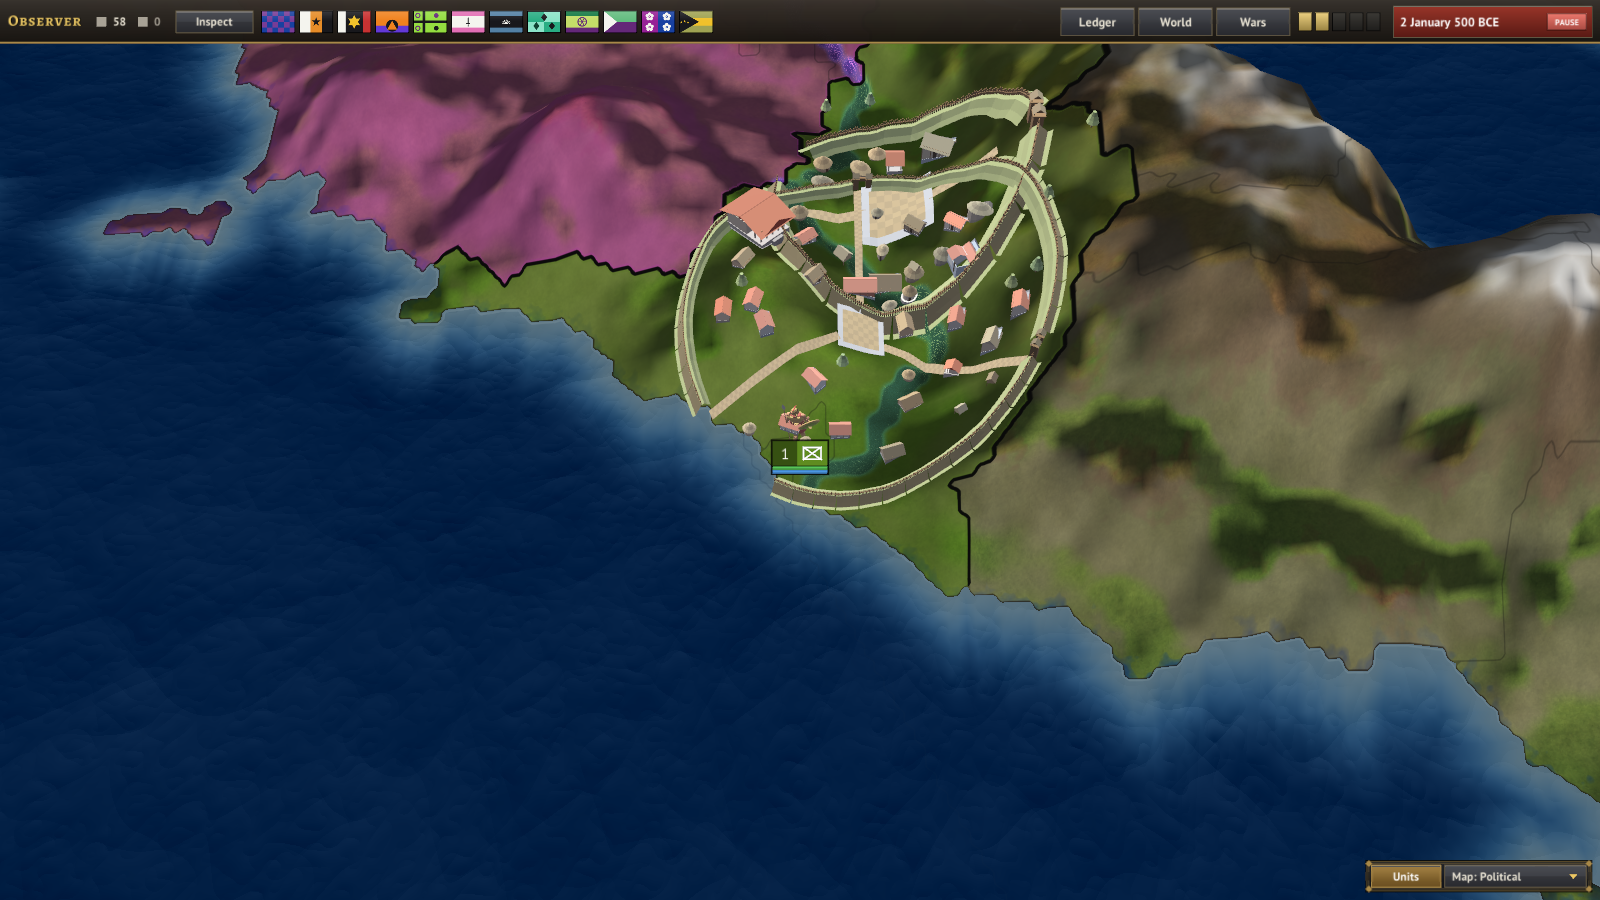
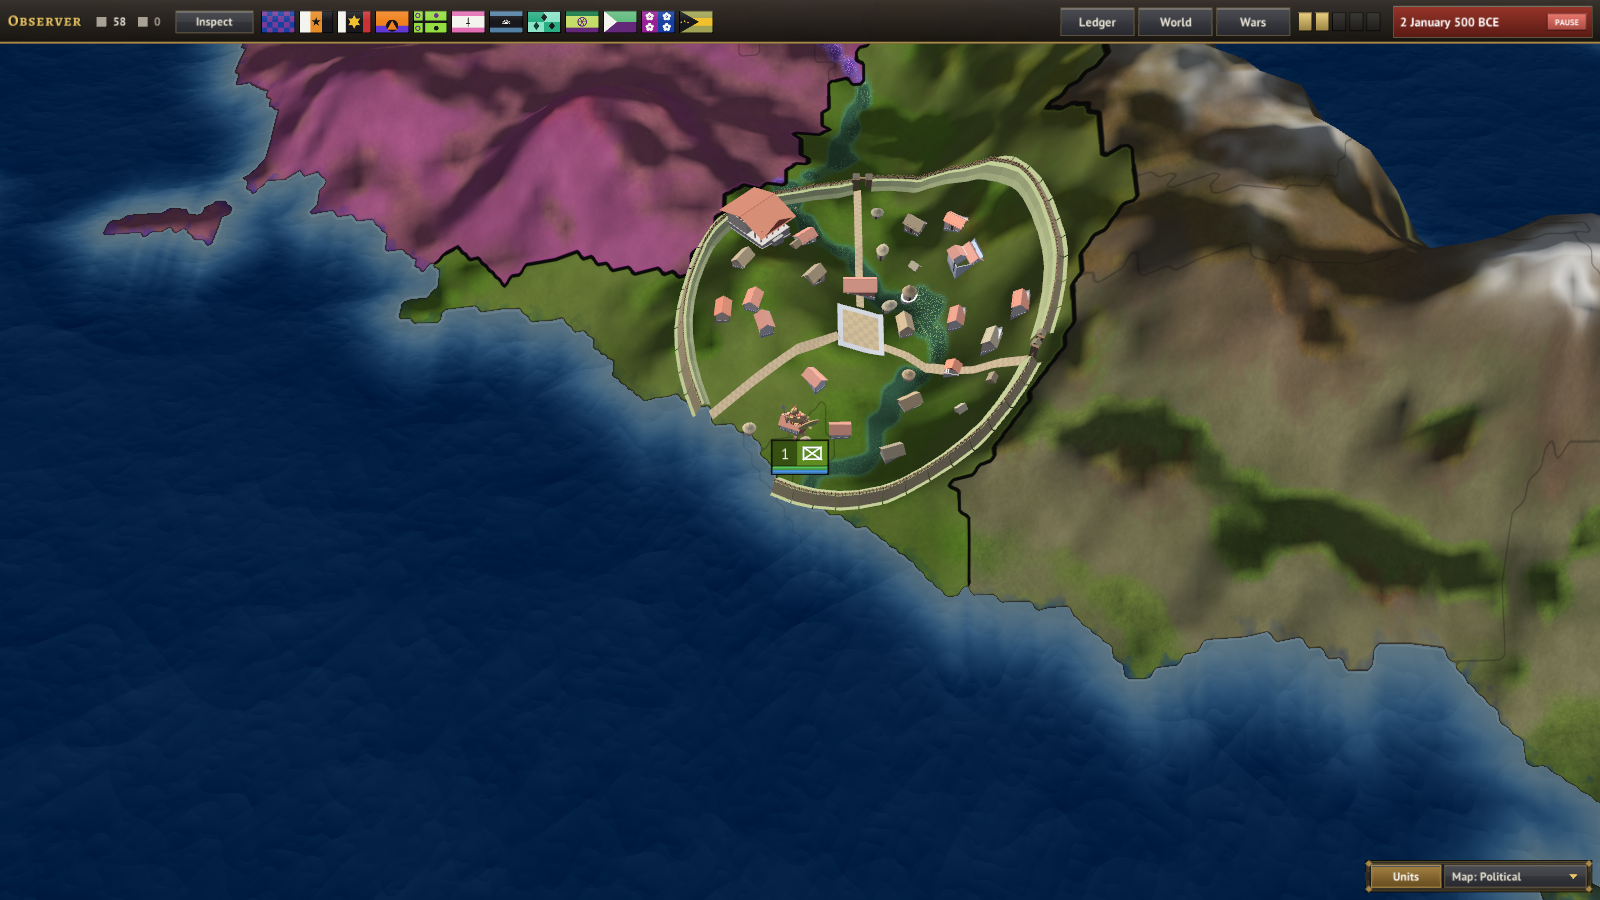
Sites: remove the Latium town site, it overlapped Rome

Changed region(s): [[0.4688, 0.0933, 0.6875, 0.3733]]

diff --git a/docs/game/SITES.md b/docs/game/SITES.md
@@ -1,6 +1,6 @@
 # Sites: procedural location models
 
-Large locations get a 3D settlement built from kit pieces. First kit: `latin` (Rome = city tier, Latium = town tier).
+Large locations get a 3D settlement built from kit pieces. First kit: `latin` (Rome = city tier; the town tier exists in the kit and shows in `--site-sheets`, but no site uses it now: Latium was removed because its model overlapped Rome).
 
 ![town](img/site-latin-town.png)
 ![city](img/site-latin-city.png)
